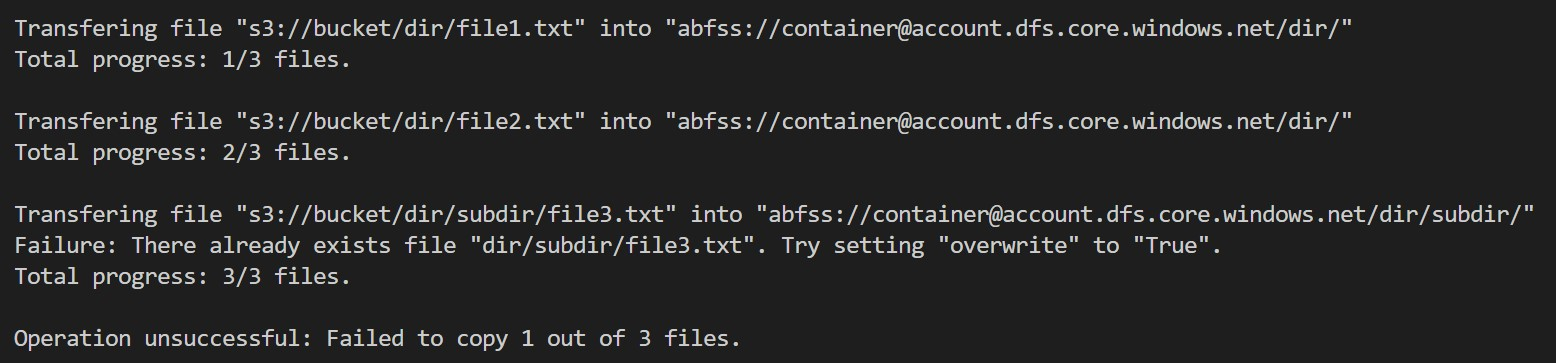
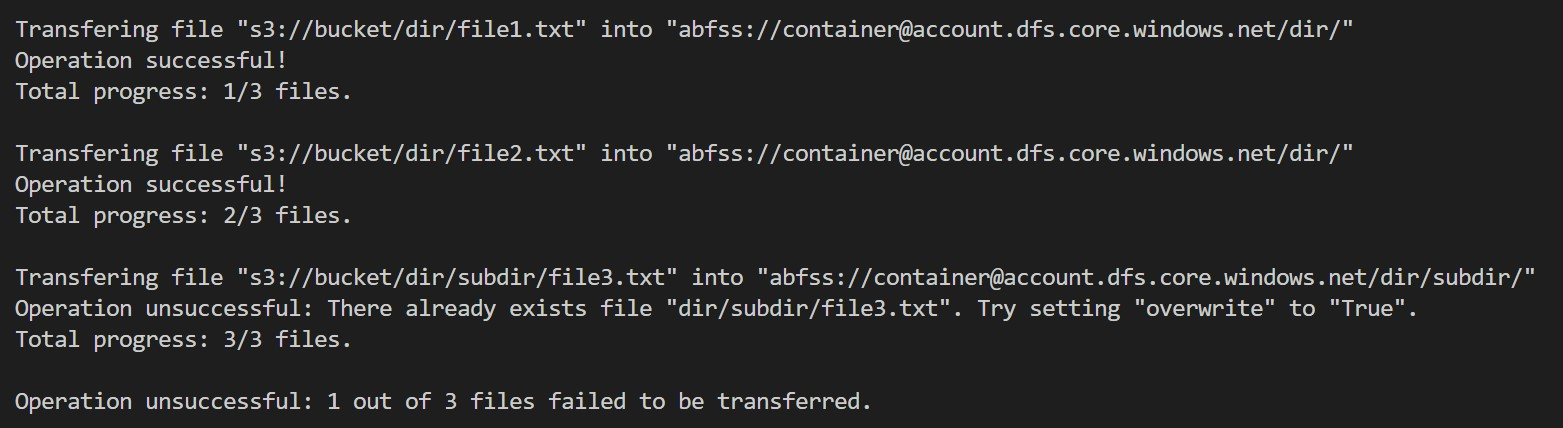
Ignore path check when path is none (#27)
* minor fixes

- path_exists is not called within AWSS3Dir/AzureBlobDir constructor when no path is given
- fixed some docs

* Update storage.py

* modified transfer_to output

* Update CHANGELOG.md

* Update CHANGELOG.md

diff --git a/fluke/storage.py b/fluke/storage.py
@@ -318,9 +318,11 @@ class _File(_ABC):
                 dst._upsert_metadata(
                     file_path=dst_fp,
                     metadata=metadata)
+            if not suppress_output:
+                print("Operation successful!")
         except Exception as e:
             if not suppress_output:
-                print(f"Failure: {e}")
+                print(f"Operation unsuccessful: {e}")
             return False
           
         return True
@@ -331,7 +333,10 @@ class _File(_ABC):
         Returns a value indicating whether all open connections \
         should close before the instance destructor is called.
         '''
-        return self.__close_after_use
+        try:
+            return self.__close_after_use
+        except AttributeError:
+            return True
 
 
     def _get_separator(self) -> str:
@@ -582,11 +587,11 @@ class RemoteFile(_NonLocalFile):
         :raises InvalidFileError: The provided path \
             points to a directory.
         '''
-        # Instantiate a connection handler,
-        # if none has been set.
-        if (ssh_handler := self._get_handler()) is None:
-            ssh_handler = _SSHClientHandler(auth=auth, cache=cache)
-            self.__host = auth.get_credentials()['hostname']
+        # Instantiate a connection handler.
+        ssh_handler = _SSHClientHandler(auth=auth, cache=cache)
+
+        # Set up hostname.
+        self.__host = auth.get_credentials()['hostname']
 
         super().__init__(
             path=path,
@@ -733,18 +738,15 @@ class AWSS3File(_CloudFile):
         '''
         # Validate path.
         sep = _infer_sep(path=path)
-
         if path.startswith(sep):
             raise _IPE(path=path)
         
-        # Instantiate a connection handler,
-        # if none has been set.
-        if (aws_handler := self._get_handler()) is None:
-            aws_handler = _AWSClientHandler(
-                auth=auth,
-                bucket=bucket,
-                cache=cache)
-        
+        # Instantiate a connection handler.
+        aws_handler = _AWSClientHandler(
+            auth=auth,
+            bucket=bucket,
+            cache=cache)
+
         super().__init__(
             path=path,
             handler=aws_handler)
@@ -874,13 +876,11 @@ class AzureBlobFile(_CloudFile):
         if path.startswith(sep):
             raise _IPE(path=path)
 
-        # Instantiate a connection handler,
-        # if none has been set.
-        if (azr_handler := self._get_handler()) is None:
-            azr_handler = _AzureClientHandler(
-                auth=auth,
-                container=container,
-                cache=cache)
+        # Instantiate a connection handler.
+        azr_handler = _AzureClientHandler(
+            auth=auth,
+            container=container,
+            cache=cache)
         
         # Infer storage account.
         self.__storage_account = auth._get_storage_account()
@@ -1310,12 +1310,12 @@ class _Directory(_ABC):
 
         if failures == 0:
             if not suppress_output:
-                print(f'\nOperation successful: Copied all {total_num_files} files!')
+                print(f'\nOperation successful: All {total_num_files} files were transfered!')
             return True
         else:
             if not suppress_output:
-                msg = "\nOperation unsuccessful: Failed to copy "
-                msg += f"{failures} out of {total_num_files} files."
+                msg = f"\nOperation unsuccessful: {failures} out of "
+                msg += f"{total_num_files} files failed to be transferred."
                 print(msg)
             return False
     
@@ -1325,7 +1325,10 @@ class _Directory(_ABC):
         Returns a value indicating whether all open connections \
         should close before the instance destructor is called.
         '''
-        return self.__close_after_use
+        try:
+            return self.__close_after_use
+        except AttributeError:
+            return True
     
 
     def _get_separator(self) -> str:
@@ -1812,6 +1815,7 @@ class RemoteDir(_NonLocalDir):
             does not point to a directory.
         '''        
         ssh_handler = _SSHClientHandler(auth=auth, cache=cache)
+        self.__host = auth.get_credentials()['hostname']
 
         super().__init__(
             path=path,
@@ -1821,8 +1825,6 @@ class RemoteDir(_NonLocalDir):
         if path == '':
             self.close()
             raise _IPE(path=path)
-
-        self.__host = auth.get_credentials()['hostname']
 
         if not ssh_handler.path_exists(path=path):
             if create_if_missing:
@@ -2081,12 +2083,15 @@ class AWSS3Dir(_CloudDir):
             path=path,
             handler=aws_handler)
 
-        if not aws_handler.dir_exists(path=path):
-            if create_if_missing:
-                aws_handler.mkdir(path=path)
-            else:
-                self.close()
-                raise _IPE(path)
+        # Create directory or throw an exception
+        # depending on the value of "create_if_missing".
+        if path != '':
+            if not aws_handler.dir_exists(path=path):
+                if create_if_missing:
+                    aws_handler.mkdir(path=path)
+                else:
+                    self.close()
+                    raise _IPE(path)
 
 
     def get_bucket_name(self) -> str:
@@ -2277,7 +2282,7 @@ class AzureBlobDir(_CloudDir):
         '''        
         # Validate path.
         if path is None:
-            path = '/'
+            path = ''
         else:
             sep = _infer_sep(path=path)
             if path.startswith(sep):
@@ -2303,12 +2308,13 @@ class AzureBlobDir(_CloudDir):
 
         # Create directory or throw an exception
         # depending on the value of "create_if_missing".
-        if not azr_handler.path_exists(path=path):
-            if create_if_missing:
-                azr_handler.mkdir(path=path)
-            else:
-                self.close()
-                raise _IPE(path)
+        if path != '':
+            if not azr_handler.path_exists(path=path):
+                if create_if_missing:
+                    azr_handler.mkdir(path=path)
+                else:
+                    self.close()
+                    raise _IPE(path)
 
 
     def get_container_name(self) -> str:

diff --git a/fluke/_handlers.py b/fluke/_handlers.py
@@ -600,6 +600,8 @@ class SSHClientHandler(ClientHandler):
         key_type = credentials.pop('key_type')
         verify_host = credentials.pop('verify_host')
 
+        print(f"\nEstablishing connection to {credentials['hostname']}...")
+
         # Load all known hosts.
         ssh.load_system_host_keys()
 
@@ -646,6 +648,7 @@ class SSHClientHandler(ClientHandler):
 
         self.__ssh = ssh
         self.__sftp = ssh.open_sftp()
+        print("Connection established!")
 
 
     def close_connections(self):
@@ -889,10 +892,12 @@ class AWSClientHandler(ClientHandler):
         if self.__bucket is not None:
             return
 
+        print(f"\nEstablishing connection to '{self.__bucket_name}' Amazon S3 bucket...")
         self.__bucket = _boto3.resource(
             service_name='s3',
             **self.__auth.get_credentials()
         ).Bucket(self.__bucket_name)
+        print("Connection established.")
 
 
     def close_connections(self):
@@ -1166,6 +1171,7 @@ class AzureClientHandler(ClientHandler):
 
         credentials = self.__auth.get_credentials()
 
+        print(f"\nEstablishing connection to '{self.__container_name}' Azure blob container...")
         if 'conn_string' in credentials:
             self.__container = _ContainerClient.from_connection_string(
                 conn_str=credentials['conn_string'],
@@ -1175,7 +1181,7 @@ class AzureClientHandler(ClientHandler):
                 account_url=credentials.pop('account_url'),
                 container_name=self.__container_name,
                 credential=_CSC(**credentials))
-
+        print("Connection established!")
 
     def close_connections(self):
         '''

diff --git a/tests/test_storage.py b/tests/test_storage.py
@@ -3609,7 +3609,7 @@ class TestAzureBlobDir(unittest.TestCase):
 
     def test_get_path_on_none_path(self):
         with self.build_dir(path=None) as dir:
-            self.assertEqual(dir.get_path(), SEPARATOR)  
+            self.assertEqual(dir.get_path(), '')  
 
     def test_get_name(self):
         with self.build_dir() as dir:

diff --git a/docs/source/user_guide/interacting_with_data.rst b/docs/source/user_guide/interacting_with_data.rst
@@ -322,9 +322,9 @@ Transfering data
 Being able to move data between various locations is arguably
 Fluke's predominant feature, and it is rendered possible
 through the use of the ``transfer_to`` method, which is part of
-both *File* and *Dir* APIs. Below is a complete example in which
+both APIs *File* and *Dir*. Below is a complete example in which
 we transfer the contents of a virtual directory residing within an
-Azure S3 bucket to a virtual directory of an Azure blob container,
+Amazon S3 bucket to a virtual directory of an Azure blob container,
 all in just a few lines of code:
 
 .. code-block:: python

diff --git a/CHANGELOG.md b/CHANGELOG.md
@@ -54,6 +54,11 @@ All notable changes to this project will be documented in this file.
 
 - Removed *Dir* API methods *get_files* and *traverse_files*.
   (https://github.com/manoss96/fluke/issues/25)
+
+- Method *AzureBlobDir.get_path* now returns the
+  empty string when no path (or a ``None`` path)
+  has been provided via the class constructor.
+  (https://github.com/manoss96/fluke/issues/25)
  
 ### Fixed
 

diff --git a/docs/source/user_guide/handling_auth.rst b/docs/source/user_guide/handling_auth.rst
@@ -232,7 +232,7 @@ you have two options:
        key_type=RemoteAuth.KeyType.SSH_RSA
      )
 
-#. Alternatively, you can simply set parameter ``verify_host`` to ``False``:
+#. Alternatively, you may simply set parameter ``verify_host`` to ``False``:
 
    .. code-block:: python
 
